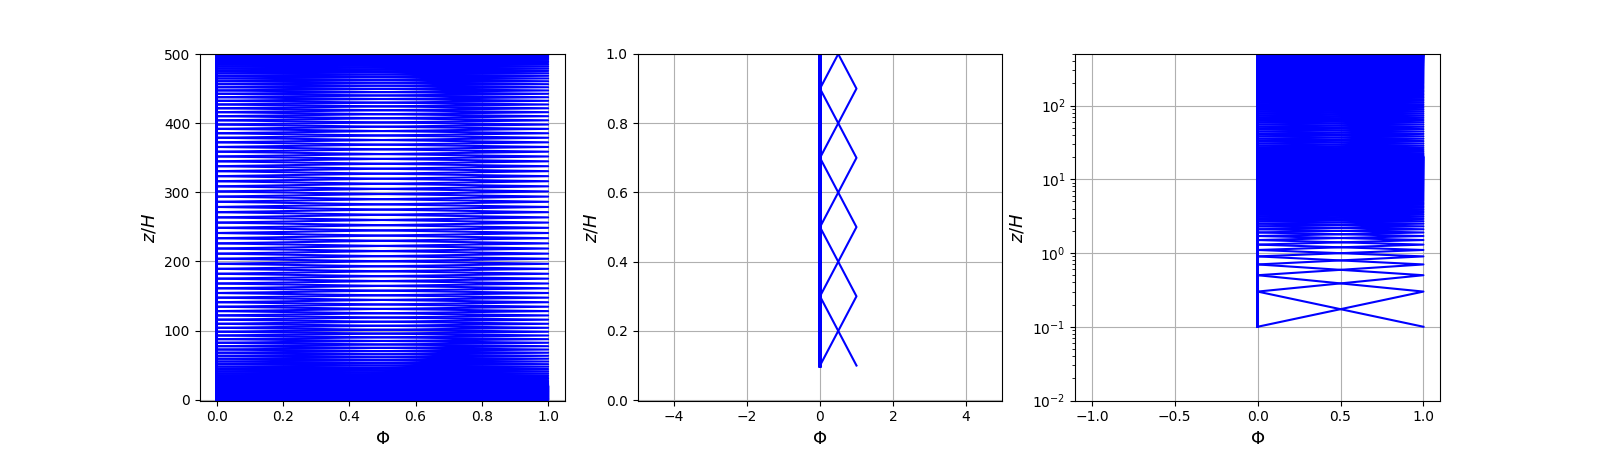
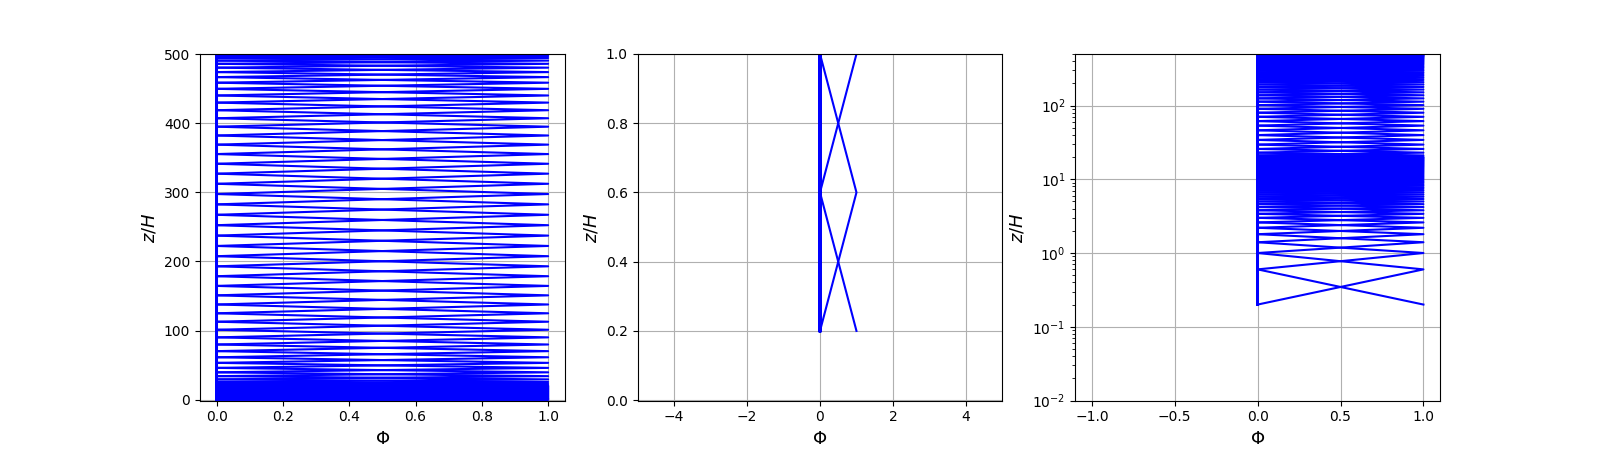
hybrid tanh grid

diff --git a/zeta.py b/zeta.py
@@ -50,8 +50,8 @@ ai = np.array([0.3]) #36666666666666666])
 grid_flag = 'hybrid cos' #'uniform' #'  'cosine' # # 
 wall_BC_flag = 'Thom'
 wall_BC_off_flag = ' ' 
-plot_freq = 0
-Nz = 200 
+plot_freq = 0 #1000
+Nz = 100  # 100 has a slight spurious mode
 H = 500. # = Hd/dS, non-dimensional grid height
 CFL = 0.5 # 0.25 fine for 150, 0.1 for 200
 #Nz = np.array([50,75,100,125,150,175,200,225,250,300,350,400,450,500,550,600,650])

diff --git a/verification_tests/discretization_test.py b/verification_tests/discretization_test.py
@@ -127,8 +127,9 @@ for n in range(0, Ng):
 
     # same as hybrid tanh, but use cosine so that there is clustering again at the top
     H1 = H/25.
-    Nz1 = int(Nz*13/16)
+    #Nz1 = int(Nz*13/16)
     #Nz1 = int(Nz*7/8)
+    Nz1 = int(Nz*1/2)
     z1 = np.linspace((H1/Nz1)/2. , H1-(H1/Nz1)/2., num=Nz1, endpoint=True) 
     H2 = H-H1
     Nz2 = int(Nz-Nz1)
